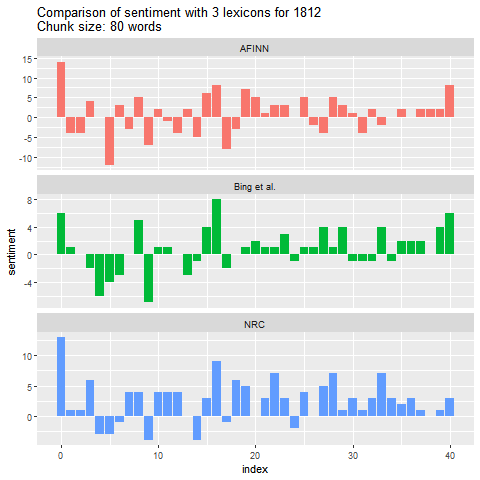
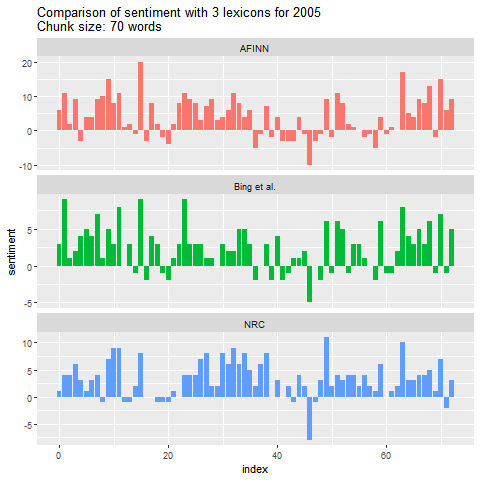
can now search by year, return text and sentiment chart

diff --git a/index.html b/index.html
@@ -32,7 +32,7 @@
             <button class="w3-bar-item w3-button w3-border-top w3-border-right tablink" onclick="openTab('fileviewer')" id="fileviewerbutton">File viewer</button>
           </div> <!-- end w3-bar tab-bar -->
           <div id="search" class="tab w3-container w3-padding">
-            <form method="GET" action="/php/super-simple-output-tester.php">
+            <form method="GET" action="php\slightly-less-simple-output-tester.php">
               <label>Enter your search term:</label>
               <input class="w3-input w3-border w3-round" type="text" name="searchTerm" placeholder="try Obama or Washington..." id="searchBox" required></input>
 
@@ -40,12 +40,15 @@
 
               <input type="submit" value="Submit"></input>
               <div class="w3-right">
-                <input class="w3-check" type="checkbox">
-                <label>Written only</label></input>
-                <input class="w3-check" type="checkbox">
-                <label>Verbal only</label></input>
-                <input class="w3-check" type="checkbox" checked="checked">
-                <label>Both</label></input>
+                <h4>chunk size</h4>
+                <input class="w3-check" type="checkbox" name="chunkSize" id="chunkSize" value="25">
+                <label>25</label></input>
+                <input class="w3-check" type="checkbox" id="chunkSize" value="50" name="chunkSize">
+                <label>50</label></input>
+                <input class="w3-check" type="checkbox" checked="checked" id="chunkSize" value="75" name="chunkSize">
+                <label>75</label></input>
+                <input class="w3-check" type="checkbox" id="chunkSize" value="100" name="chunkSize">
+                <label>100</label></input>
               </div>
             </form>
           </div> <!-- end search -->

diff --git a/php/slightly-less-simple-output-tester.php b/php/slightly-less-simple-output-tester.php
@@ -1,0 +1,44 @@
+<html>
+
+  <head>
+    <meta name="viewport" content="width=device-width, initial-scale=1">
+    <link rel="icon" href="https://github.com/tymonaghan/sotu-db/raw/master/images/favicon.png">
+    <link rel="stylesheet" href="/style/w3.css">
+    <link rel="stylesheet" href="https://cdnjs.cloudflare.com/ajax/libs/font-awesome/4.7.0/css/font-awesome.min.css">
+    <title>SOTU-db</title>
+    <script src="https://ajax.googleapis.com/ajax/libs/jquery/3.3.1/jquery.min.js"></script>
+    <style>
+      body {
+        background: url("../images/Obama_waves_State_of_the_Union_2011-lightened.jpg") no-repeat center;
+        background-size: cover;
+      }
+    </style>
+  </head>
+  <body>
+    <?php
+    if ($_SERVER["REQUEST_METHOD"] == "GET") {
+      $year = $_GET["searchTerm"];
+      $chunkSize = $_GET["chunkSize"];
+    } //if the form is filled out, clean the "searchTerm" and store as year
+
+#$output = `C:\"Program Files"\R\R-3.5.1\bin\RScript.exe ../r-scripts/simple-summary-with-sentimentPlot.R $year $chunkSize`;
+$output = `usr/lib/R/bin/Rscript ../r-scripts/simple-summary-with-sentimentPlot.R $year $chunkSize`;
+?>
+
+  <div class="w3-top">
+    <?php include 'topnav.php';?>
+  </div> <!-- end w3-top -->
+<div class="w3-content">
+  <div class = "w3-card w3-white">
+    <img src="../output/plot.png">
+</div>
+  <div class = "w3-card w3-white">
+  <p>you searched for <?php echo $year ?> </p>
+  <p>using chunkSize of <?php echo $chunkSize ?> </p>
+  <br>
+  <p><b>results:</b> <?php print_r($output); ?> </p>
+</div> <!-- end w3-card -->
+</div> <!-- end w3-content div -->
+
+  </body>
+</html>
